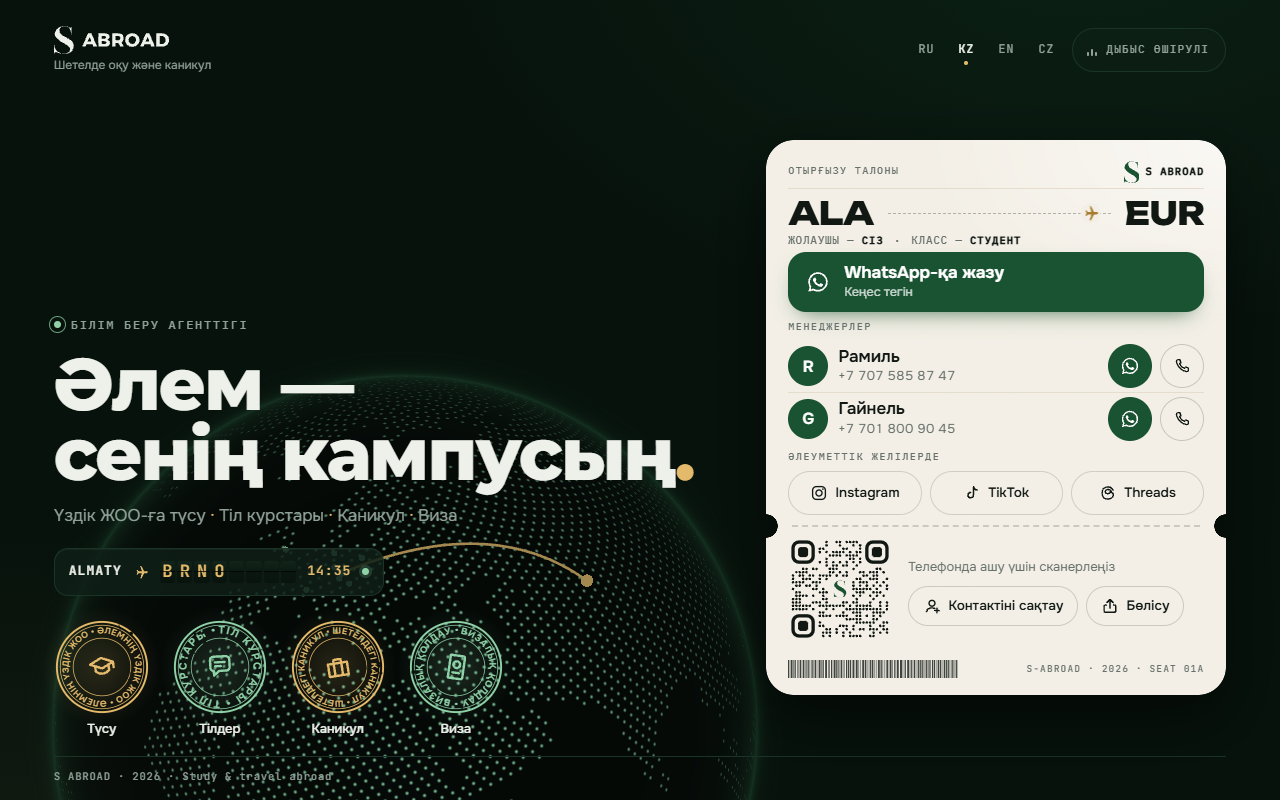
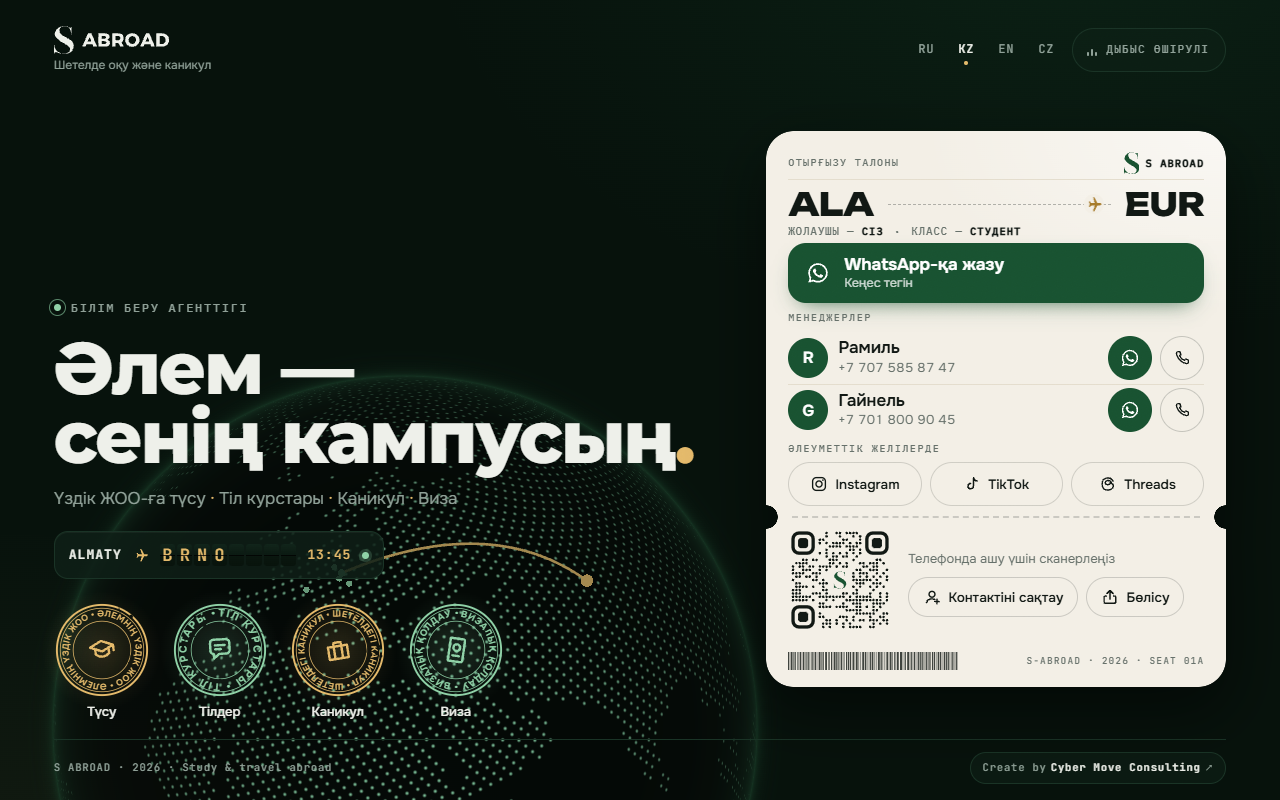
Футер: плашка «Create by Cyber Move Consulting» → cybermove.asia

diff --git a/site/src/styles/index.css b/site/src/styles/index.css
@@ -1048,9 +1048,41 @@ a.manager-phone:hover {
   font-weight: 500;
   letter-spacing: 0.08em;
   color: var(--muted);
+  display: flex;
+  flex-wrap: wrap;
+  align-items: center;
+  justify-content: space-between;
+  gap: 4px 16px;
+}
+.footer-left {
   white-space: nowrap;
-  overflow: hidden;
-  text-overflow: ellipsis;
+}
+.credit {
+  display: inline-flex;
+  align-items: center;
+  gap: 4px;
+  min-height: 32px;
+  padding: 0 12px;
+  border: 1px solid var(--ink-3);
+  border-radius: 999px;
+  background: rgb(14 31 22 / 0.6);
+  color: var(--muted);
+  text-decoration: none;
+  white-space: nowrap;
+  transition:
+    color 0.2s,
+    border-color 0.2s;
+}
+.credit b {
+  font-weight: 600;
+  color: var(--text);
+}
+.credit:hover {
+  color: var(--gold);
+  border-color: var(--gold);
+}
+.credit:hover b {
+  color: var(--gold);
 }
 
 /* ───────────── Sticky CTA (mobile) ───────────── */

diff --git a/site/src/components/Footer.tsx b/site/src/components/Footer.tsx
@@ -5,7 +5,13 @@ export function Footer() {
   const { t } = useI18n()
   return (
     <footer className="footer">
-      {site.brand} · {site.year} · {t.footer.left}
+      <span className="footer-left">
+        {site.brand} · {site.year} · {t.footer.left}
+      </span>
+      <a className="credit" href="https://cybermove.asia" target="_blank" rel="noopener">
+        Create by <b>Cyber Move Consulting</b>
+        <span aria-hidden="true"> ↗</span>
+      </a>
     </footer>
   )
 }
